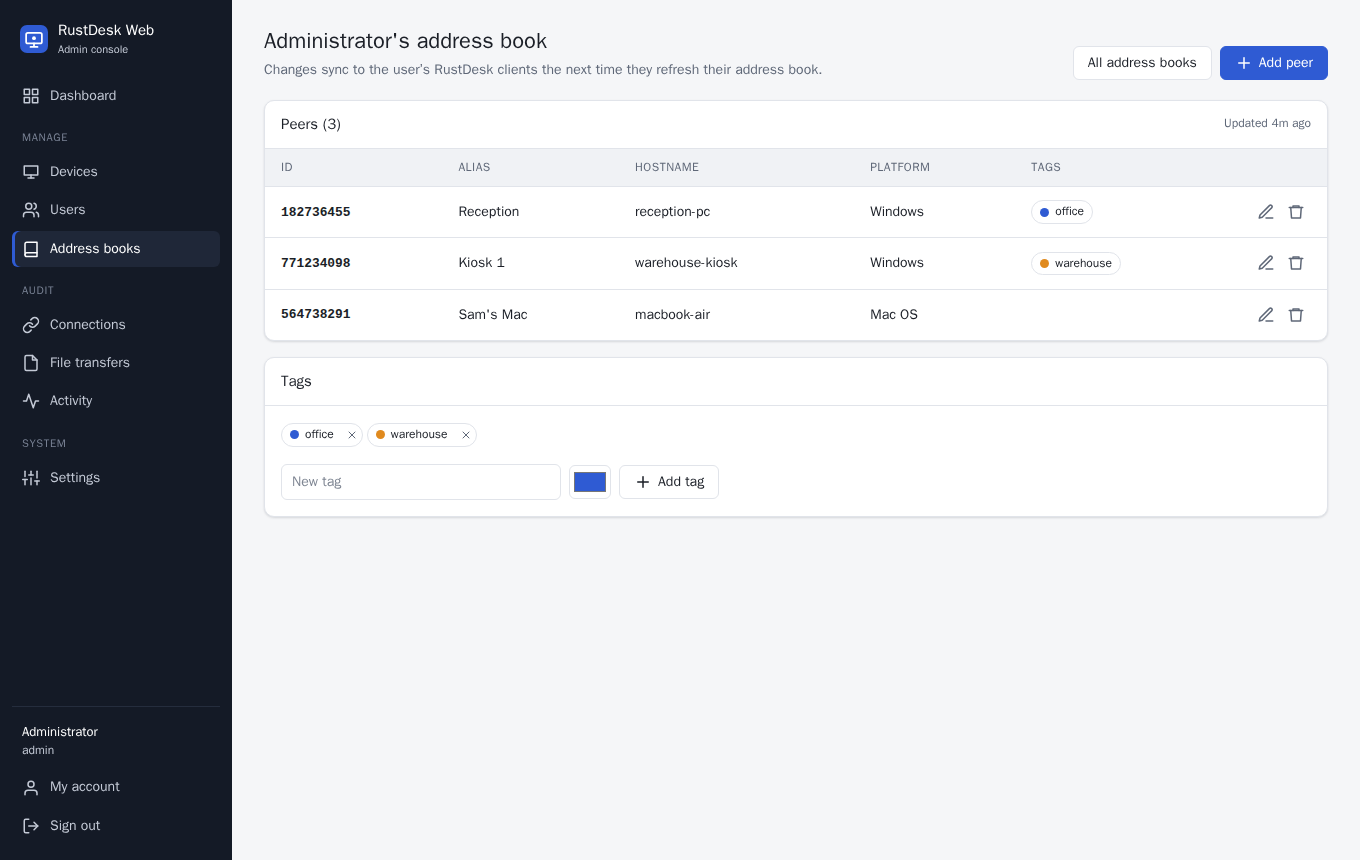
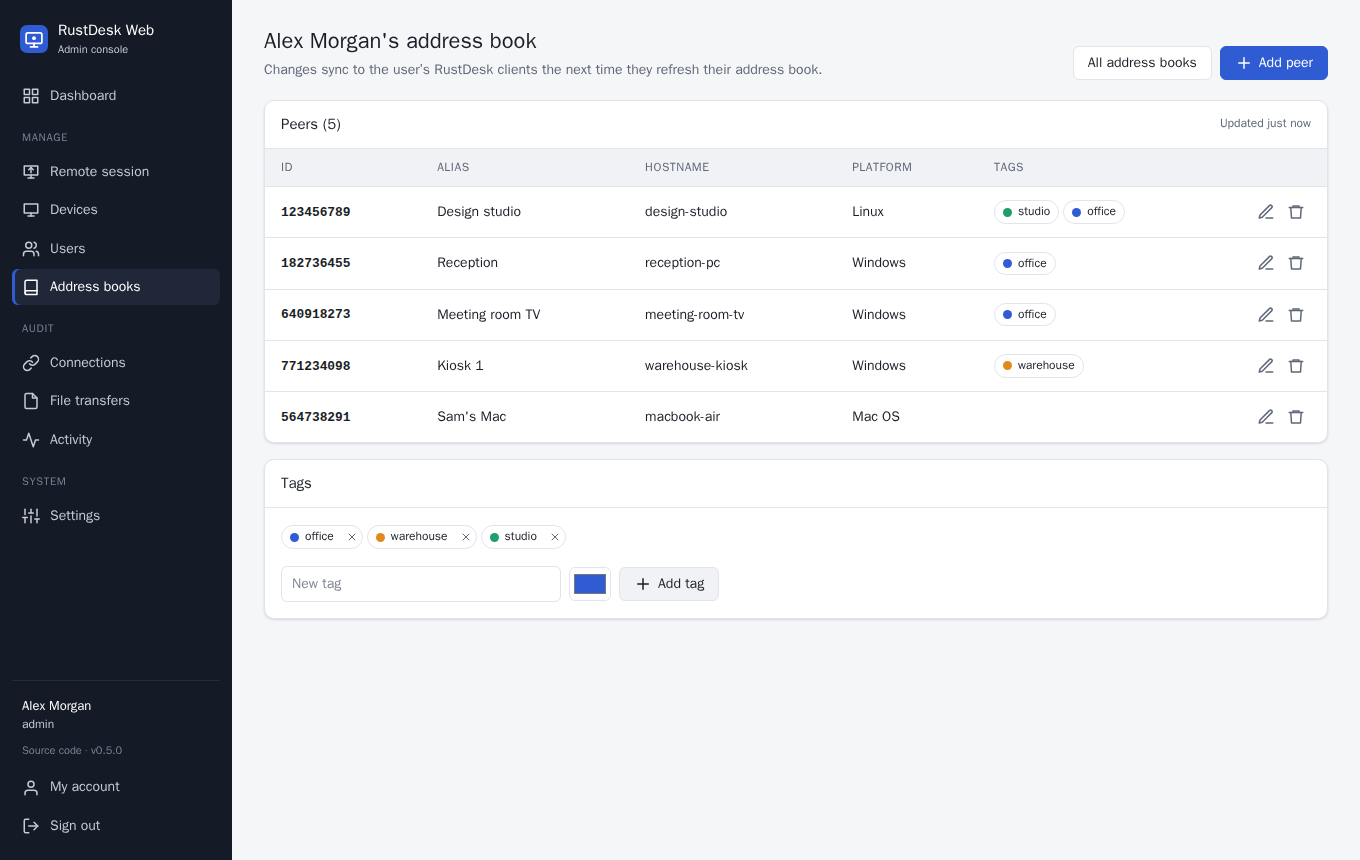
Update README screenshots for 0.5.0
New remote session and devices screenshots; dashboard (light and dark) and
address book retaken with the current UI. Demo data only: fictional names,
documentation IP ranges, and the testbed peer for the session.

diff --git a/README.md b/README.md
@@ -31,6 +31,8 @@ It stores its data in SQLite.
 <details>
 <summary>More screenshots</summary>
 
+![Remote session in the browser](docs/remote-session.png)
+![Devices](docs/devices.png)
 ![Address book](docs/address-book.png)
 ![Dark mode](docs/dashboard-dark.png)
 
